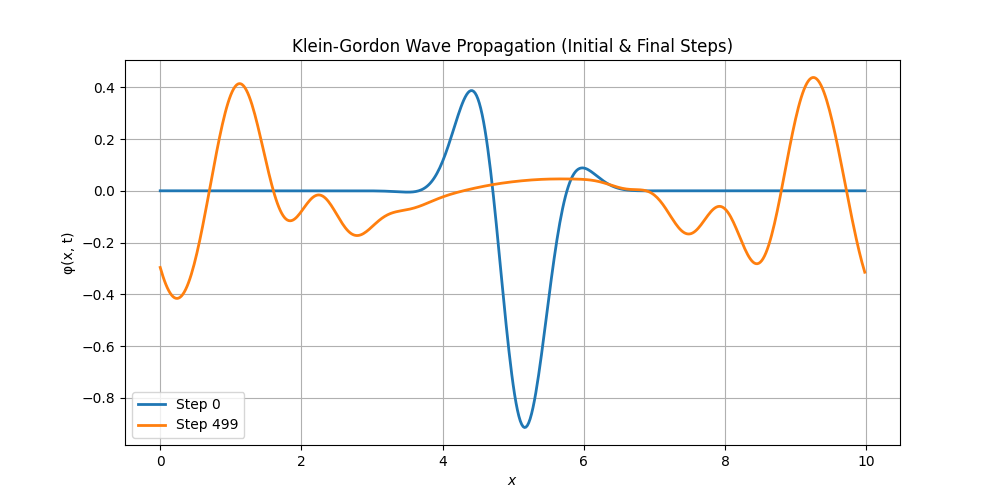
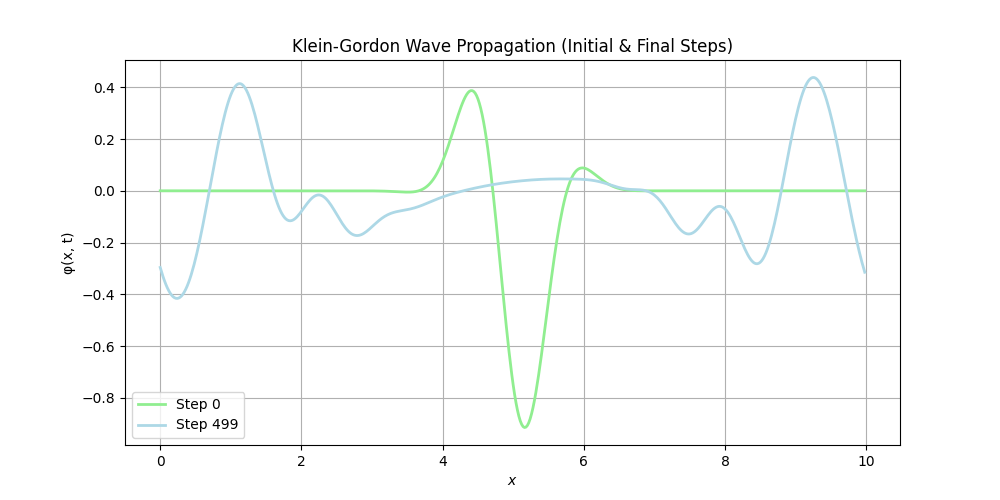
image addition

diff --git a/plotting_program.py b/plotting_program.py
@@ -30,10 +30,10 @@ plt.show()
 plt.figure(figsize=(10, 5))
 
 x_init, phi_init = load_data(file_list[0])
-plt.plot(x_init, phi_init, label="Step 0", linewidth=2)
+plt.plot(x_init, phi_init, label="Step 0", linewidth=2, color = "lightgreen")
 
 x_final, phi_final = load_data(file_list[-1])
-plt.plot(x_final, phi_final, label=f"Step {file_list[-1].split('_')[-1].split('.')[0]}", linewidth=2)
+plt.plot(x_final, phi_final, label=f"Step {file_list[-1].split('_')[-1].split('.')[0]}", linewidth=2, color = "lightblue")
 
 plt.xlabel("$x$")
 plt.ylabel("φ(x, t)")
